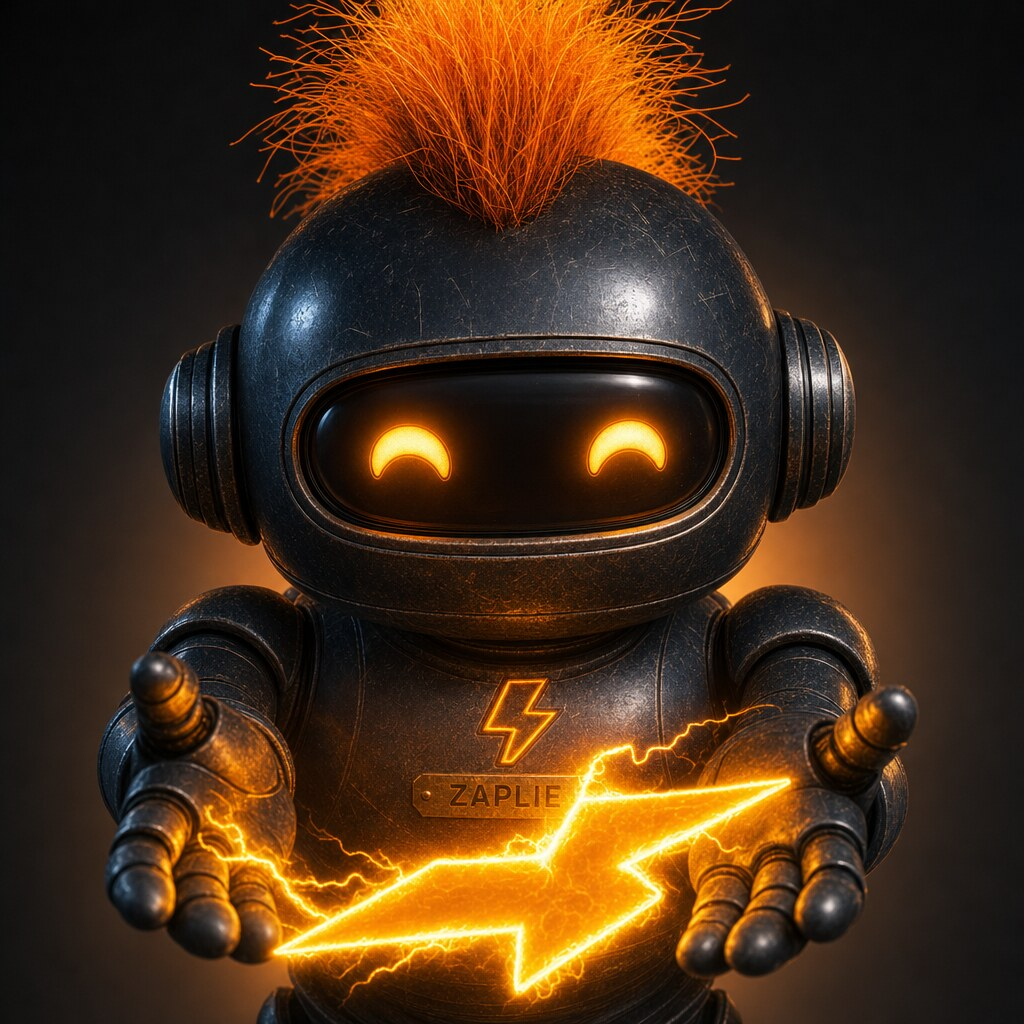
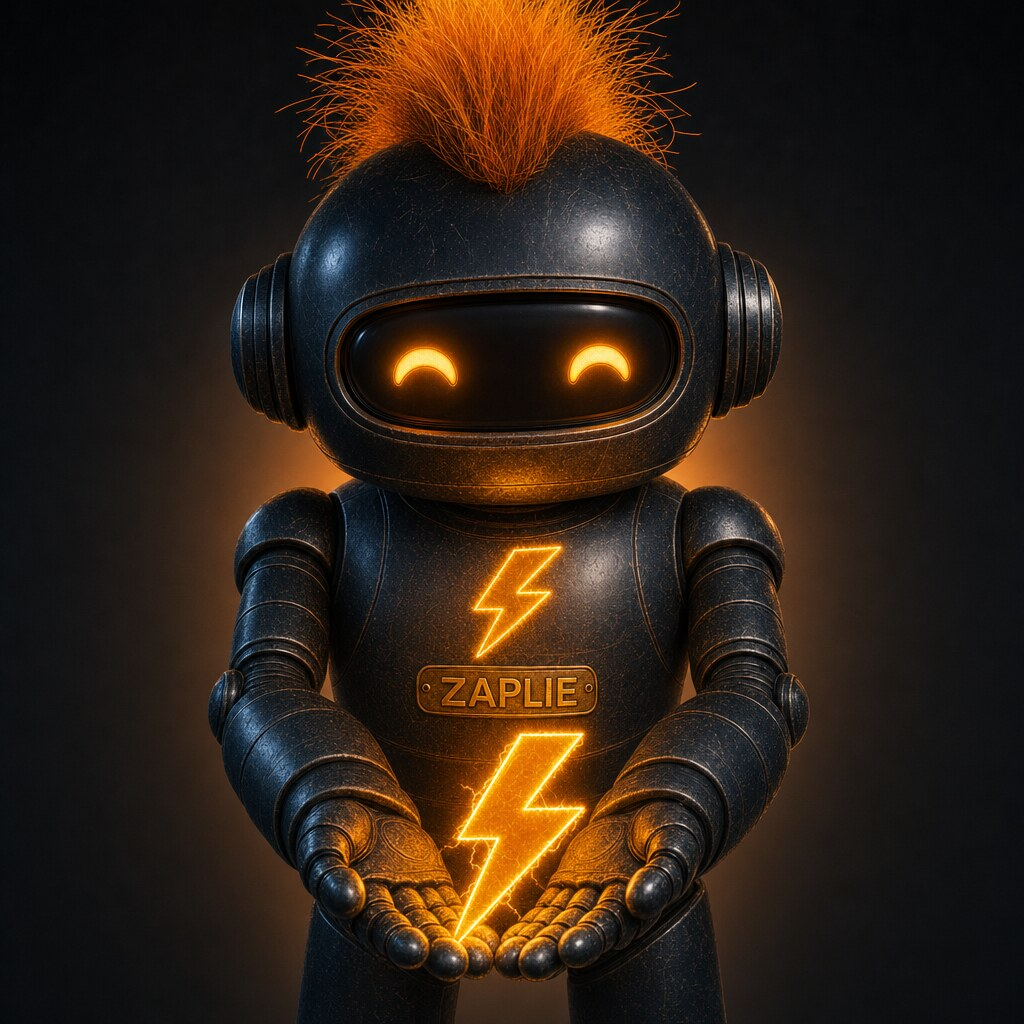
fix: make the gift image's zap a proper lightning bolt symbol

diff --git a/assets/agent/prompts/images.md b/assets/agent/prompts/images.md
@@ -33,7 +33,7 @@ Shot lines:
 - **Hero:** Wide 3:2 website hero banner. Zaplie seen from the chest up, large and close on the RIGHT half of the frame, turning slightly toward the left and holding out a crackling ball of `$ZAP` in an open palm, a few small orange sparks drifting into the empty space. The LEFT half is empty and very dark so a headline can sit over it. Background: very dark charcoal with a soft warm orange glow behind him and a gentle vignette.
 - **Profile:** Profile picture: a centred head-and-shoulders portrait looking straight at the viewer, friendly, eyes bright. The head and mohawk fill most of the frame with a little space above the hair, the chest zap icon visible at the bottom edge so it crops well into a circle. Background: plain dark charcoal with a soft warm orange glow behind his head.
 - **Zapping:** Action shot: Zaplie playfully firing a crackling bolt of `$ZAP` from his outstretched fingertips toward the left of the frame, his other hand on his hip, mohawk glowing brighter, little sparks bouncing off the edges, eyes squinted into happy crescents. Waist-up, three-quarter view. Background: plain dark charcoal with orange light from the zap.
-- **Gift:** Zaplie holding a solid glowing lightning bolt made of `$ZAP` out toward the viewer with both hands like a gift, leaning in slightly, eyes squinted into happy crescents, warm orange light from the bolt on his metal. Waist-up, facing the viewer. Background: plain dark charcoal with a soft warm glow.
+- **Gift:** Zaplie holding a glowing lightning bolt SYMBOL made of `$ZAP`, exactly the same iconic shape as the zap icon on his chest (like the ⚡ emoji: one thick zigzag with a single sharp step, a wide angled top and a long sharp point at the bottom), about the size of his head, cradled in his two cupped open palms at waist height and presented toward the viewer like a gift. The chest zap icon and the ZAPLIE nameplate stay fully visible above it. Eyes squinted into happy crescents. Waist-up, facing the viewer. Background: plain dark charcoal with a soft warm glow.
 - **Celebrate:** Zaplie celebrating: both arms thrown up in the air in triumph, a shower of small `$ZAP` sparks and confetti-like orange sparks bursting around him, mohawk flaring, eyes squinted into joyful crescents. Waist-up, facing the viewer. Background: plain dark charcoal with a warm orange glow.
 - **Wave:** Zaplie giving a friendly hello wave with one raised hand, head tilted slightly, eyes squinted into happy crescents, a single tiny orange spark at his fingertips. Waist-up, facing the viewer. Background: plain dark charcoal with a soft warm orange glow.
 
